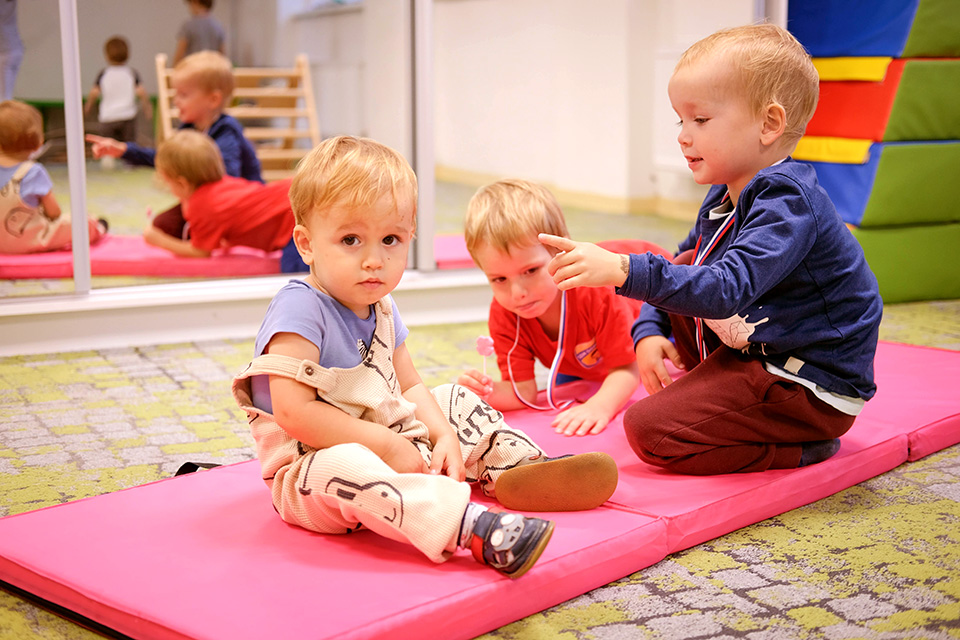
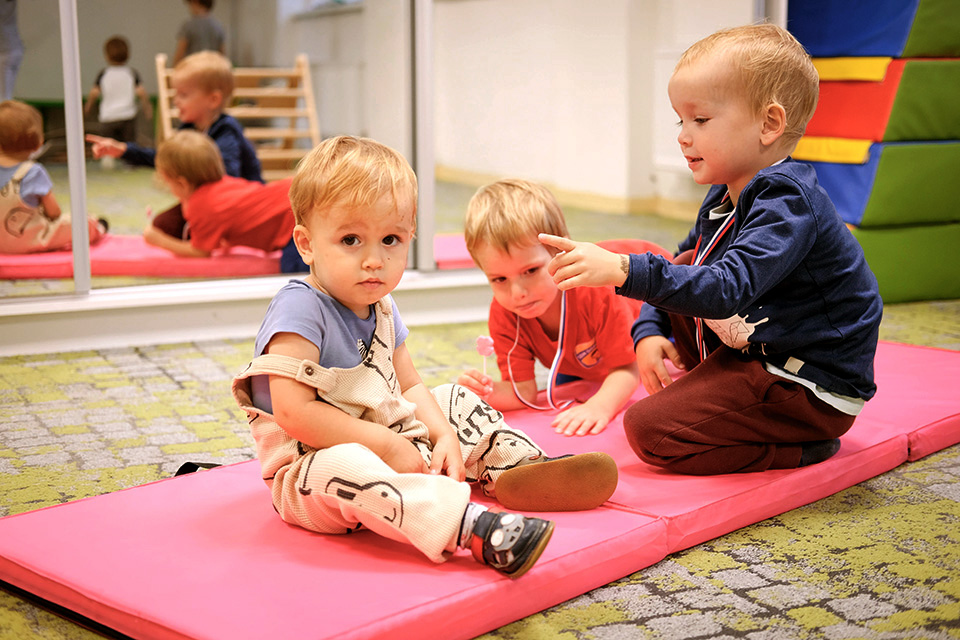
Tweak MC photo in 2023 review

diff --git a/packages/trnavka-theme/resources/views/partials/report/services-dicaprio.blade.php b/packages/trnavka-theme/resources/views/partials/report/services-dicaprio.blade.php
@@ -123,7 +123,7 @@
                     <div class="col-lg-8 item-image @if(($i + 1) % 2 === 0) order-lg-last
 @endif">
                         @if(isset($service['image']))
-                            <img src="@asset('images/2023/' . $service['image'])?cb=1"/>
+                            <img src="@asset('images/2023/' . $service['image'])?cb=2"/>
                         @endif
                     </div>
                     <div class="col-lg-4 d-flex align-self-center">
